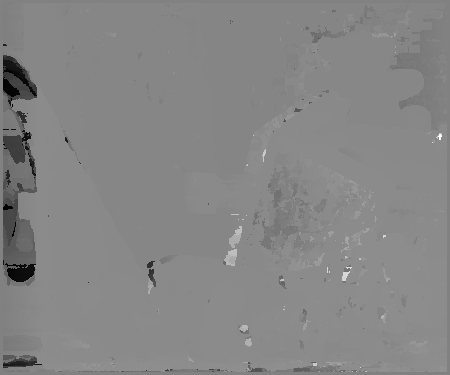
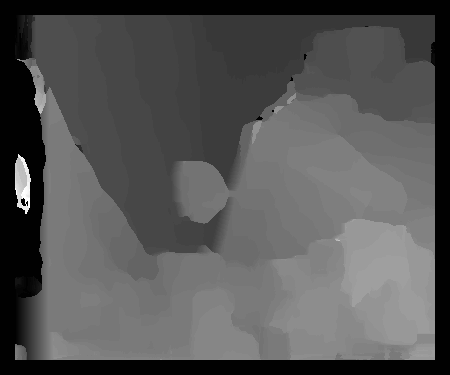
fix: 🐛 addded maxDisparity to stereo

diff --git a/src/findFundamentalMatrix.ts b/src/findFundamentalMatrix.ts
@@ -1,6 +1,6 @@
 import path from 'path';
 import { siftMatches } from './lib/findMatches';
-import { Matrix } from 'ml-matrix';
+import { Matrix, SVD } from 'ml-matrix';
 import * as cv from 'opencv4nodejs';
 import { eightPointAlgorithm } from './lib/eightPointAlgorithm';
 import { ndMat, IMatchPoint, cvMat } from './@types';
@@ -8,6 +8,11 @@ import { matrix2ndMat } from './lib/utils';
 import { ransac } from './lib/ransac';
 import { getRandomInt } from './lib/utils';
 
+const calculateEpipole = (F: ndMat) => {
+  const Fmat = (new Matrix(F)).transpose();
+  const svdF = new SVD(Fmat);
+  return svdF.rightSingularVectors.getColumn(2);
+};
 
 const drawLines = (lines: Array<cv.Vec3>, img1: cvMat, img2: cvMat, pts1: Array<cv.Point2>, pts2: Array<cv.Point2>) => {
   const c = img1.cols;
@@ -38,12 +43,12 @@ const calculateSquareError = (sample: IMatchPoint, F: ndMat) => {
 const img1 = cv.imread(path.resolve('.', 'datasets', 'temple', 'temple0001.png'));
 const img2 = cv.imread(path.resolve('.', 'datasets', 'temple', 'temple0002.png'));
 
-const matches = siftMatches(img1, img2, 10000);
+const matches = siftMatches(img1, img2, 100);
 
-const F = ransac(matches, 8, eightPointAlgorithm, calculateSquareError, 0.01, 0.9);
+let F = ransac(matches, 8, eightPointAlgorithm, calculateSquareError, 0.01, 0.9);
 
-const FcvMat = new cv.Mat(F, cv.CV_32F);
-// const { F: FcvMat } = cv.findFundamentalMat(matches.map(el => new cv.Point2(el.p1.x, el.p1.y)), matches.map(el => new cv.Point2(el.p2.x, el.p2.y)), cv.FM_RANSAC);
+// const FcvMat = new cv.Mat(F, cv.CV_32F);
+const { F: FcvMat } = cv.findFundamentalMat(matches.map(el => new cv.Point2(el.p1.x, el.p1.y)), matches.map(el => new cv.Point2(el.p2.x, el.p2.y)), cv.FM_8POINT);
 
 const pts1 = matches.map(el => new cv.Point2(el.p1.x, el.p1.y));
 const pts2 = matches.map(el => new cv.Point2(el.p2.x, el.p2.y));

diff --git a/src/stereo.ts b/src/stereo.ts
@@ -18,7 +18,7 @@ const SSDError = ([b1, g1, r1]: any, [b2, g2, r2]: any) => {
   return exp2(r2 - r1) + exp2(g2 - g1) + exp2(b2 - b1);
 };
 
-const getPixelWindow = (m: ndMat, [row, col]: Array<number>, windowSize = 3) => {
+const getPixelWindow = (m: ndMat, [row, col]: Array<number>, windowSize = 15) => {
   let window = [] as ndMat;
   let wi = 0, wj = 0;
 
@@ -82,6 +82,7 @@ const linearTransform = (x: number, min: number, max: number, a: number, b: numb
 };
 
 let max = Number.MIN_SAFE_INTEGER, min = Number.MAX_SAFE_INTEGER;
+const maxDisparity = 70;
 
 for (let i = 0; i < img1.length; i++) {
   for (let j = 0; j < img1[i].length; j++) {
@@ -89,13 +90,15 @@ for (let i = 0; i < img1.length; i++) {
     if (w) {
       const matchPosition = searchMatchInEpiline(img2, w, i);
       let disp = Math.abs(j - matchPosition[1]);
-      if (disp < min) {
-        min = disp;
+      if (disp < maxDisparity) {
+        if (disp < min) {
+          min = disp;
+        }
+        if (disp > max) {
+          max = disp;
+        }
+        disparity[i][j] = disp;
       }
-      if (disp > max) {
-        max = disp;
-      }
-      disparity[i][j] = disp;
     }
   }
   console.log(i);
